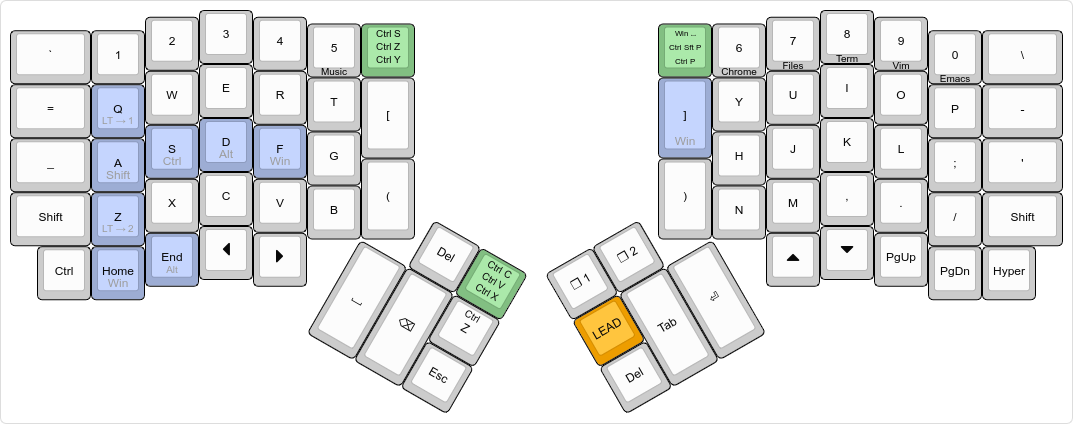
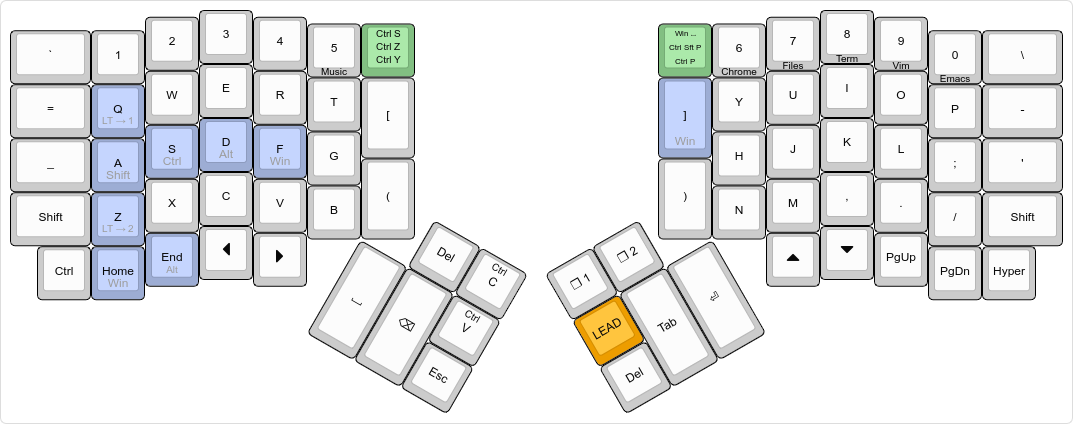
Split Ctrl C and Ctrl V back into separate keys.

Changed region(s): [[0.4306, 0.5825, 0.4921, 0.7665], [0.4306, 0.7665, 0.4613, 0.7972]]

diff --git a/keymap.c b/keymap.c
@@ -31,14 +31,12 @@ enum {
 
 /* Tap Dance Declarations */
 enum {
-  // copy, paste and cut
-  TD_COPY_PASTE_CUT = 0,
   // save, undo, redo
-  TD_SAVE_UNDO_REDO = 1,
+  TD_SAVE_UNDO_REDO = 0,
   // app launcher, vscode command palette, file search
-  TD_APP_LAUNCHER_CMD_PALETTE = 2,
+  TD_APP_LAUNCHER_CMD_PALETTE = 1,
   // next track and prev track
-  TD_NEXT_PREV_TRACK = 3,
+  TD_NEXT_PREV_TRACK = 2,
 };
 
 const uint16_t PROGMEM keymaps[][MATRIX_ROWS][MATRIX_COLS] = {
@@ -50,8 +48,8 @@ const uint16_t PROGMEM keymaps[][MATRIX_ROWS][MATRIX_COLS] = {
       KC_LSFT, LT(2, KC_Z), KC_X, KC_C, KC_V, KC_B, KC_LPRN,
       KC_LCTL, GUI_T(KC_HOME), ALT_T(KC_END), KC_LEFT, KC_RIGHT,
 
-      KC_DELETE, TD(TD_COPY_PASTE_CUT),
-      LCTL(KC_Z),
+      KC_DELETE, LCTL(KC_C),
+      LCTL(KC_V),
       KC_SPACE, KC_BSPACE, KC_ESC,
 
       // right hand
@@ -160,30 +158,6 @@ const uint16_t PROGMEM keymaps[][MATRIX_ROWS][MATRIX_COLS] = {
   }
 
   /* Tap Dance Definitions */
-  void copy_paste_cut(qk_tap_dance_state_t * state, void * user_data) {
-      if (state -> count == 1) {
-          // Copy (Ctrl+C)
-          register_code(KC_LCTL);
-          register_code(KC_C);
-          unregister_code(KC_C);
-          unregister_code(KC_LCTL);
-      }
-      else if (state -> count == 2) {
-          // Paste (Ctrl+V)
-          register_code(KC_LCTL);
-          register_code(KC_V);
-          unregister_code(KC_V);
-          unregister_code(KC_LCTL);
-      }
-      else if (state -> count == 3) {
-          // Cut (Ctrl+X)
-          register_code(KC_LCTL);
-          register_code(KC_X);
-          unregister_code(KC_X);
-          unregister_code(KC_LCTL);
-      }
-  }
-
   void save_undo_redo(qk_tap_dance_state_t * state, void * user_data) {
       if (state -> count == 1) {
           // Save (Ctrl+S)
@@ -235,8 +209,6 @@ const uint16_t PROGMEM keymaps[][MATRIX_ROWS][MATRIX_COLS] = {
   }
 
   qk_tap_dance_action_t tap_dance_actions[] = {
-      // Tap once for copy, twice for paste, thrice for cut
-      [TD_COPY_PASTE_CUT]  = ACTION_TAP_DANCE_FN(copy_paste_cut),
       // Tap once for save, twice for undo, thrice for redo
       [TD_SAVE_UNDO_REDO]  = ACTION_TAP_DANCE_FN(save_undo_redo),
       // Tap once for app launcher, twice for vs code cmd palette, thrice for vs code quick open
